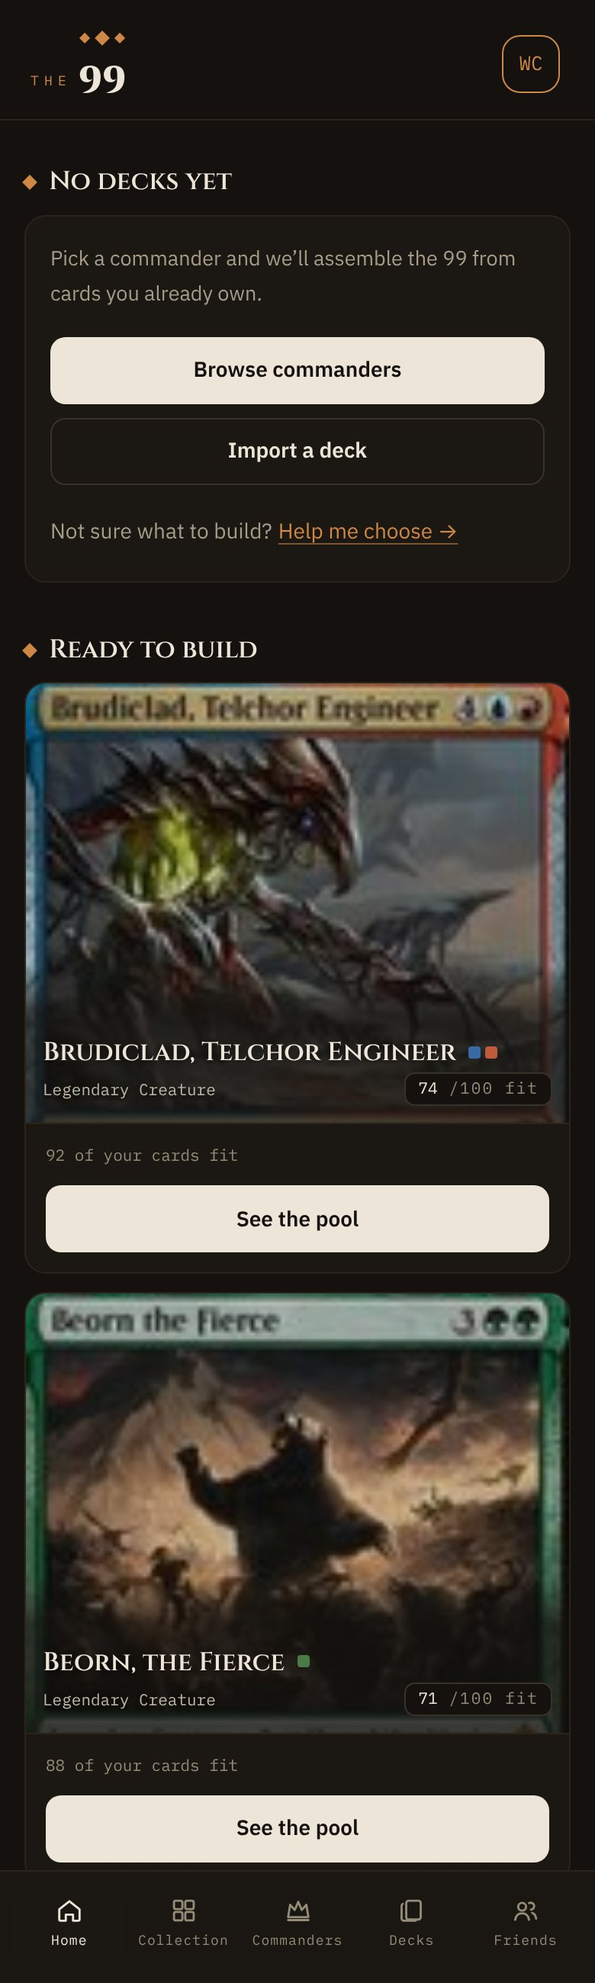
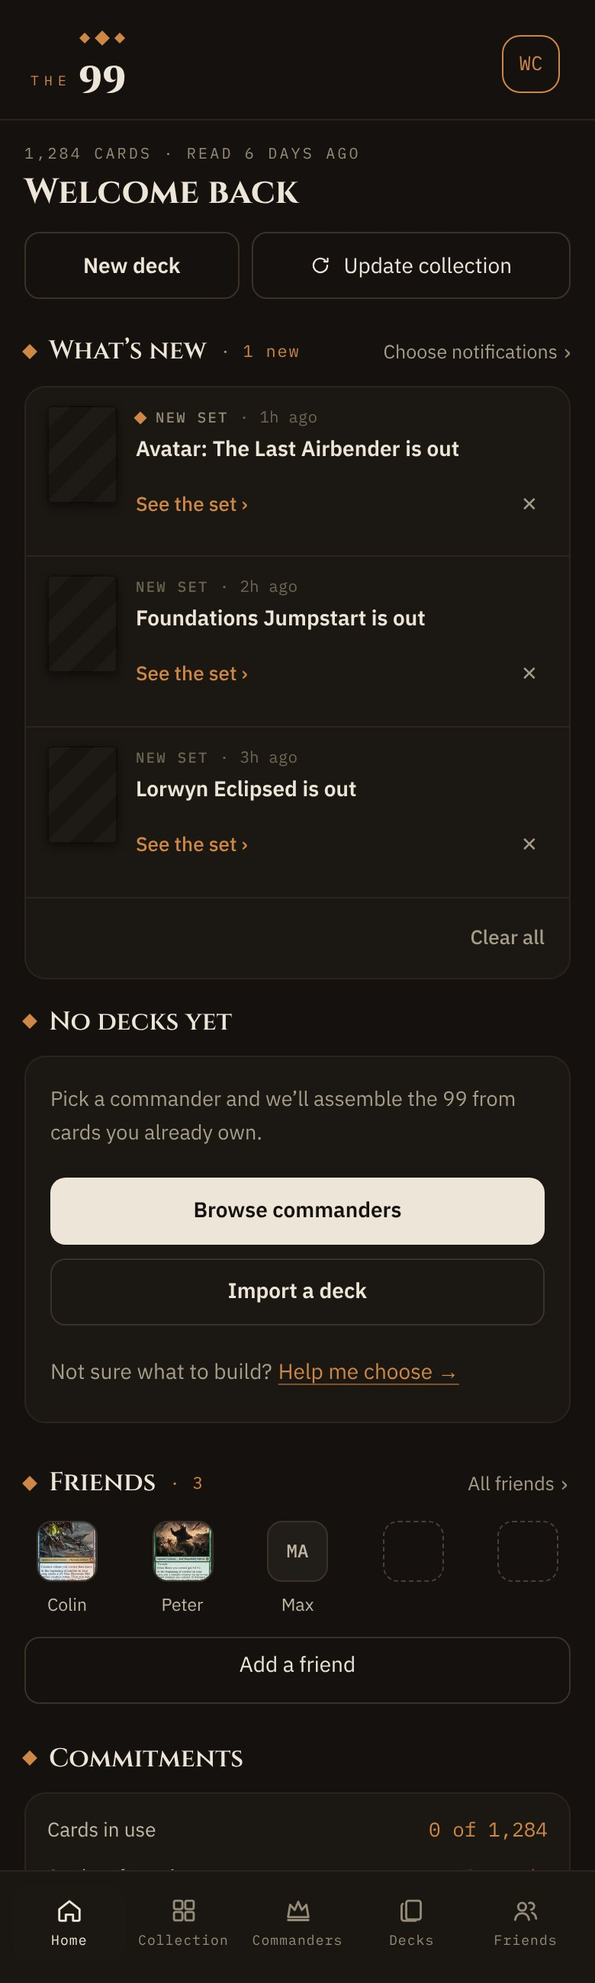
account-2 2026-11-26: Deck details refresh R4b, before/after on every R4 board, Home redrawn as the shipped zero-deck Dashboard
Claude-Session: https://claude.ai/code/session_01UvpaAavF5dGRZqX6wimWWg

diff --git a/account-2/design_handoff_the99_deck_details_refresh/R4-HelpMeChoose.dc.html b/account-2/design_handoff_the99_deck_details_refresh/R4-HelpMeChoose.dc.html
@@ -9,11 +9,12 @@
 <x-dc>
 <helmet><style>body{margin:0;background:#0f0d0a;font-family:system-ui,sans-serif;color:#EDE6D8}
 .b{padding:40px}.t{font-size:28px;font-weight:600;margin:0 0 8px}.n{font-size:16px;color:#C0B8A6;max-width:1500px;line-height:1.5;margin:0 0 28px}
-.row{display:flex;gap:60px;align-items:flex-start}.f{display:flex;flex-direction:column;gap:8px}.f span{font:13px ui-monospace,monospace;color:#948B78}
+.lab{font:600 15px ui-monospace,monospace;letter-spacing:.12em;margin:0 0 12px;color:#948B78}.lab.a{color:#CF8745}
+.row{display:flex;gap:60px;align-items:flex-start;margin-bottom:56px}.f{display:flex;flex-direction:column;gap:8px}.f span{font:13px ui-monospace,monospace;color:#948B78}
 .f img{display:block;border:1px solid #2B241B}</style></helmet>
-<div class="b"><p class="t">R4 Help me choose results · heads</p><p class="n">Best fits, More commanders and The rest of your results use the ◆ display head; the divider's hairline goes. Left pair: fit order. Right pair: after a read, where the rest head replaces More commanders so two heads never stack.</p><div class="row"><div class="f"><span>Desktop</span><img src="art/r4/HM-desk.jpg" width="1300" height="1100" alt=""></div><div class="f"><span>Phone</span><img src="art/r4/HM-phone.jpg" width="390" height="2000" alt=""></div><div class="f"><span>Desktop</span><img src="art/r4/HR-desk.jpg" width="1300" height="1100" alt=""></div><div class="f"><span>Phone</span><img src="art/r4/HR-phone.jpg" width="390" height="1700" alt=""></div></div></div>
+<div class="b"><p class="t">R4 Help me choose results · heads</p><p class="n">Best fits, More commanders and The rest of your results use the ◆ display head; the divider's hairline goes. First pair: fit order. Second pair: after a read, where the rest head replaces More commanders so two heads never stack.</p><p class="lab ">BEFORE · SHIPPED</p><div class="row"><div class="f"><span>Desktop</span><img src="art/r4/before/HM-desk.jpg" width="1300" height="1100" alt=""></div><div class="f"><span>Phone</span><img src="art/r4/before/HM-phone.jpg" width="390" height="2000" alt=""></div><div class="f"><span>Desktop</span><img src="art/r4/before/HR-desk.jpg" width="1300" height="1100" alt=""></div><div class="f"><span>Phone</span><img src="art/r4/before/HR-phone.jpg" width="390" height="1700" alt=""></div></div><p class="lab a">AFTER · R4</p><div class="row"><div class="f"><span>Desktop</span><img src="art/r4/HM-desk.jpg" width="1300" height="1100" alt=""></div><div class="f"><span>Phone</span><img src="art/r4/HM-phone.jpg" width="390" height="2000" alt=""></div><div class="f"><span>Desktop</span><img src="art/r4/HR-desk.jpg" width="1300" height="1100" alt=""></div><div class="f"><span>Phone</span><img src="art/r4/HR-phone.jpg" width="390" height="1700" alt=""></div></div></div>
 </x-dc>
-<script type="text/x-dc" data-dc-script data-props='{"$preview":{"width":3720,"height":2198}}'>
+<script type="text/x-dc" data-dc-script data-props='{"$preview":{"width":3640,"height":4414}}'>
 class Component extends DCLogic {
 renderVals() { return {}; }
 }

diff --git a/account-2/design_handoff_the99_deck_details_refresh/R4-Export.dc.html b/account-2/design_handoff_the99_deck_details_refresh/R4-Export.dc.html
@@ -9,11 +9,12 @@
 <x-dc>
 <helmet><style>body{margin:0;background:#0f0d0a;font-family:system-ui,sans-serif;color:#EDE6D8}
 .b{padding:40px}.t{font-size:28px;font-weight:600;margin:0 0 8px}.n{font-size:16px;color:#C0B8A6;max-width:1500px;line-height:1.5;margin:0 0 28px}
-.row{display:flex;gap:60px;align-items:flex-start}.f{display:flex;flex-direction:column;gap:8px}.f span{font:13px ui-monospace,monospace;color:#948B78}
+.lab{font:600 15px ui-monospace,monospace;letter-spacing:.12em;margin:0 0 12px;color:#948B78}.lab.a{color:#CF8745}
+.row{display:flex;gap:60px;align-items:flex-start;margin-bottom:56px}.f{display:flex;flex-direction:column;gap:8px}.f span{font:13px ui-monospace,monospace;color:#948B78}
 .f img{display:block;border:1px solid #2B241B}</style></helmet>
-<div class="b"><p class="t">R4 Export and Export › Shopping</p><p class="n">Tabs use the shipped SegmentedSwitch (no amber Shopping pill). Shopping rows are the shipped decklist rows, read only. The i callout becomes one plain line; the footer drops Moxfield · Archidekt ready (the subtitle says it); bare ✕ close.</p><div class="row"><div class="f"><span>Desktop</span><img src="art/r4/E-desk-shop.jpg" width="1300" height="860" alt=""></div><div class="f"><span>Phone</span><img src="art/r4/E-phone-shop.jpg" width="390" height="844" alt=""></div><div class="f"><span>Desktop</span><img src="art/r4/E-desk-list.jpg" width="1300" height="860" alt=""></div></div></div>
+<div class="b"><p class="t">R4 Export and Export › Shopping</p><p class="n">Tabs use the shipped SegmentedSwitch (no amber Shopping pill). Shopping rows are the shipped decklist rows, read only. The i callout becomes one plain line; the footer drops Moxfield · Archidekt ready (the subtitle says it); bare ✕ close.</p><p class="lab ">BEFORE · SHIPPED</p><div class="row"><div class="f"><span>Desktop</span><img src="art/r4/before/E-desk-shop.jpg" width="1300" height="860" alt=""></div><div class="f"><span>Phone</span><img src="art/r4/before/E-phone-shop.jpg" width="390" height="844" alt=""></div><div class="f"><span>Desktop</span><img src="art/r4/before/E-desk-list.jpg" width="1300" height="860" alt=""></div></div><p class="lab a">AFTER · R4</p><div class="row"><div class="f"><span>Desktop</span><img src="art/r4/E-desk-shop.jpg" width="1300" height="860" alt=""></div><div class="f"><span>Phone</span><img src="art/r4/E-phone-shop.jpg" width="390" height="844" alt=""></div><div class="f"><span>Desktop</span><img src="art/r4/E-desk-list.jpg" width="1300" height="860" alt=""></div></div></div>
 </x-dc>
-<script type="text/x-dc" data-dc-script data-props='{"$preview":{"width":3270,"height":1058}}'>
+<script type="text/x-dc" data-dc-script data-props='{"$preview":{"width":3190,"height":2134}}'>
 class Component extends DCLogic {
 renderVals() { return {}; }
 }

diff --git a/account-2/design_handoff_the99_deck_details_refresh/R4-Precons.dc.html b/account-2/design_handoff_the99_deck_details_refresh/R4-Precons.dc.html
@@ -9,11 +9,12 @@
 <x-dc>
 <helmet><style>body{margin:0;background:#0f0d0a;font-family:system-ui,sans-serif;color:#EDE6D8}
 .b{padding:40px}.t{font-size:28px;font-weight:600;margin:0 0 8px}.n{font-size:16px;color:#C0B8A6;max-width:1500px;line-height:1.5;margin:0 0 28px}
-.row{display:flex;gap:60px;align-items:flex-start}.f{display:flex;flex-direction:column;gap:8px}.f span{font:13px ui-monospace,monospace;color:#948B78}
+.lab{font:600 15px ui-monospace,monospace;letter-spacing:.12em;margin:0 0 12px;color:#948B78}.lab.a{color:#CF8745}
+.row{display:flex;gap:60px;align-items:flex-start;margin-bottom:56px}.f{display:flex;flex-direction:column;gap:8px}.f span{font:13px ui-monospace,monospace;color:#948B78}
 .f img{display:block;border:1px solid #2B241B}</style></helmet>
-<div class="b"><p class="t">R4 Precons · Announced box and year boxes</p><p class="n">Announced and each release year become deck boxes: ◆ display title on the rail band, count in mono. Folded Announced (phone, right) keeps its shipped toggle on the band.</p><div class="row"><div class="f"><span>Desktop</span><img src="art/r4/P-desk.jpg" width="1300" height="1500" alt=""></div><div class="f"><span>Phone</span><img src="art/r4/P-phone.jpg" width="390" height="2150" alt=""></div><div class="f"><span>Phone</span><img src="art/r4/PC-phone.jpg" width="390" height="900" alt=""></div></div></div>
+<div class="b"><p class="t">R4 Precons · Announced box and year boxes</p><p class="n">Announced and each release year become deck boxes: ◆ display title on the rail band, count in mono. Folded Announced (phone, right) keeps its shipped toggle on the band.</p><p class="lab ">BEFORE · SHIPPED</p><div class="row"><div class="f"><span>Desktop</span><img src="art/r4/before/P-desk.jpg" width="1300" height="1500" alt=""></div><div class="f"><span>Phone</span><img src="art/r4/before/P-phone.jpg" width="390" height="2150" alt=""></div><div class="f"><span>Phone</span><img src="art/r4/before/PC-phone.jpg" width="390" height="900" alt=""></div></div><p class="lab a">AFTER · R4</p><div class="row"><div class="f"><span>Desktop</span><img src="art/r4/P-desk.jpg" width="1300" height="1500" alt=""></div><div class="f"><span>Phone</span><img src="art/r4/P-phone.jpg" width="390" height="2150" alt=""></div><div class="f"><span>Phone</span><img src="art/r4/PC-phone.jpg" width="390" height="900" alt=""></div></div></div>
 </x-dc>
-<script type="text/x-dc" data-dc-script data-props='{"$preview":{"width":2360,"height":2348}}'>
+<script type="text/x-dc" data-dc-script data-props='{"$preview":{"width":2280,"height":4714}}'>
 class Component extends DCLogic {
 renderVals() { return {}; }
 }

diff --git a/account-2/design_handoff_the99_deck_details_refresh/scratch-gen/r4/r4.tsx b/account-2/design_handoff_the99_deck_details_refresh/scratch-gen/r4/r4.tsx
@@ -12,7 +12,7 @@ import { FriendsView } from "../src/components/social/friends-view";
 import { PodsPane } from "../src/components/social/pods-pane";
 import { named } from "../src/lib/person-name/mint";
 import { HomeDecksZero } from "../src/components/home/home-decks-zero";
-import { ReadyToBuild } from "../src/components/home/ready-to-build";
+import { Dashboard } from "../src/components/home/dashboard";
 import { AnalysisEmpty } from "../src/components/decks/analysis-empty";
 import { ChooseResults } from "../src/components/intake/choose-results";
 import { ReadScope } from "../src/components/intake/read-panel";
@@ -127,7 +127,10 @@ app("F-phone", "phone", "/friends", friends, { vh: 1400 });
 // ---------- Home: zero decks, Ready to build ----------
 const hero = (i: number, name: string, ci: string[], score: number, pool: number): any => ({ oracleId: "oh" + i, slug: name.toLowerCase().replace(/\W+/g, "-"), name, colorIdentity: ci, imageUri: img(i), artCropUri: img(i), score, measurableTotal: 100, colorPoolSize: pool, typeLine: "Legendary Creature" });
 const READY: any = { shown: [hero(0, "Brudiclad, Telchor Engineer", ["U", "R"], 74, 92), hero(5, "Beorn, the Fierce", ["G"], 71, 88)], moreCount: 7, floor: 70 };
-const home = () => <div className="flex flex-col" style={{ gap: 34, padding: "24px 16px 40px", maxWidth: 1000, width: "100%", margin: "0 auto", boxSizing: "border-box" }}><HomeDecksZero /><ReadyToBuild ready={READY} inUse={new Map()} /></div>;
+const HNOW = "2026-11-26T08:00:00.000Z";
+const hv = (n: number, o: any = {}): any => ({ key: `k${n}`, kind: "new-set", at: new Date(Date.parse(HNOW) - (n + 1) * 3_600_000).toISOString(), unseen: n < 1, card: null, friend: null, href: `/collection/sets/s${n}`, opens: null, outbound: null, name: ["Avatar: The Last Airbender", "Foundations Jumpstart", "Lorwyn Eclipsed"][n % 3], setSize: null, owned: null, drop: null, combo: null, answer: null, askable: false, ...o });
+const HFEED: any = { chosen: true, on: ["new-set", "trade-match"], items: [hv(0), hv(1), hv(2)], unseen: 1, lead: null };
+const home = () => <Dashboard stats={{ totalCards: 1284, uniqueCards: 900 }} lastUpdated={new Date("2026-11-20T00:00:00Z")} ready={READY} inUse={new Map()} decks={[]} commitments={{ inUse: 0, overCommitted: 0 } as any} shopping={{ byDeck: new Map(), total: { copies: 0, cents: 0, pricedCopies: 0 } } as any} friends={{ you: { displayName: "Wren", commander: null }, friends: FR.slice(0, 3) as any, links: [], invites: null } as any} now={HNOW} feed={HFEED} />;
 app("H-desk", "desk", "/", home, { vh: 900 });
 app("H-phone", "phone", "/", home, { vh: 1300 });
 

diff --git a/account-2/design_handoff_the99_deck_details_refresh/R4-Cart.dc.html b/account-2/design_handoff_the99_deck_details_refresh/R4-Cart.dc.html
@@ -9,11 +9,12 @@
 <x-dc>
 <helmet><style>body{margin:0;background:#0f0d0a;font-family:system-ui,sans-serif;color:#EDE6D8}
 .b{padding:40px}.t{font-size:28px;font-weight:600;margin:0 0 8px}.n{font-size:16px;color:#C0B8A6;max-width:1500px;line-height:1.5;margin:0 0 28px}
-.row{display:flex;gap:60px;align-items:flex-start}.f{display:flex;flex-direction:column;gap:8px}.f span{font:13px ui-monospace,monospace;color:#948B78}
+.lab{font:600 15px ui-monospace,monospace;letter-spacing:.12em;margin:0 0 12px;color:#948B78}.lab.a{color:#CF8745}
+.row{display:flex;gap:60px;align-items:flex-start;margin-bottom:56px}.f{display:flex;flex-direction:column;gap:8px}.f span{font:13px ui-monospace,monospace;color:#948B78}
 .f img{display:block;border:1px solid #2B241B}</style></helmet>
-<div class="b"><p class="t">R4 Decks › All shopping cart · Decks box</p><p class="n">The mono deck-select label becomes a ◆ Decks band with N of M selected; Select all/none stays at the band's end in the sans face. Checkout total box unchanged.</p><div class="row"><div class="f"><span>Desktop</span><img src="art/r4/C-desk.jpg" width="1300" height="900" alt=""></div><div class="f"><span>Phone</span><img src="art/r4/C-phone.jpg" width="390" height="1100" alt=""></div></div></div>
+<div class="b"><p class="t">R4 Decks › All shopping cart · Decks box</p><p class="n">The mono deck-select label becomes a ◆ Decks band with N of M selected; Select all/none stays at the band's end in the sans face. Checkout total box unchanged.</p><p class="lab ">BEFORE · SHIPPED</p><div class="row"><div class="f"><span>Desktop</span><img src="art/r4/before/C-desk.jpg" width="1300" height="900" alt=""></div><div class="f"><span>Phone</span><img src="art/r4/before/C-phone.jpg" width="390" height="1100" alt=""></div></div><p class="lab a">AFTER · R4</p><div class="row"><div class="f"><span>Desktop</span><img src="art/r4/C-desk.jpg" width="1300" height="900" alt=""></div><div class="f"><span>Phone</span><img src="art/r4/C-phone.jpg" width="390" height="1100" alt=""></div></div></div>
 </x-dc>
-<script type="text/x-dc" data-dc-script data-props='{"$preview":{"width":1910,"height":1298}}'>
+<script type="text/x-dc" data-dc-script data-props='{"$preview":{"width":1830,"height":2614}}'>
 class Component extends DCLogic {
 renderVals() { return {}; }
 }

diff --git a/account-2/design_handoff_the99_deck_details_refresh/R4-PreconOpen.dc.html b/account-2/design_handoff_the99_deck_details_refresh/R4-PreconOpen.dc.html
@@ -9,11 +9,12 @@
 <x-dc>
 <helmet><style>body{margin:0;background:#0f0d0a;font-family:system-ui,sans-serif;color:#EDE6D8}
 .b{padding:40px}.t{font-size:28px;font-weight:600;margin:0 0 8px}.n{font-size:16px;color:#C0B8A6;max-width:1500px;line-height:1.5;margin:0 0 28px}
-.row{display:flex;gap:60px;align-items:flex-start}.f{display:flex;flex-direction:column;gap:8px}.f span{font:13px ui-monospace,monospace;color:#948B78}
+.lab{font:600 15px ui-monospace,monospace;letter-spacing:.12em;margin:0 0 12px;color:#948B78}.lab.a{color:#CF8745}
+.row{display:flex;gap:60px;align-items:flex-start;margin-bottom:56px}.f{display:flex;flex-direction:column;gap:8px}.f span{font:13px ui-monospace,monospace;color:#948B78}
 .f img{display:block;border:1px solid #2B241B}</style></helmet>
-<div class="b"><p class="t">R4 Open precon · Overview box</p><p class="n">The mono Overview label becomes a box band; View full overview moves to the box foot. Decklist group heads follow Deck details All (already in PR 1).</p><div class="row"><div class="f"><span>Desktop</span><img src="art/r4/PO-desk.jpg" width="1300" height="1300" alt=""></div><div class="f"><span>Phone</span><img src="art/r4/PO-phone.jpg" width="390" height="1500" alt=""></div></div></div>
+<div class="b"><p class="t">R4 Open precon · Overview box</p><p class="n">The mono Overview label becomes a box band; View full overview moves to the box foot. Decklist group heads follow Deck details All (already in PR 1).</p><p class="lab ">BEFORE · SHIPPED</p><div class="row"><div class="f"><span>Desktop</span><img src="art/r4/before/PO-desk.jpg" width="1300" height="1300" alt=""></div><div class="f"><span>Phone</span><img src="art/r4/before/PO-phone.jpg" width="390" height="1500" alt=""></div></div><p class="lab a">AFTER · R4</p><div class="row"><div class="f"><span>Desktop</span><img src="art/r4/PO-desk.jpg" width="1300" height="1300" alt=""></div><div class="f"><span>Phone</span><img src="art/r4/PO-phone.jpg" width="390" height="1500" alt=""></div></div></div>
 </x-dc>
-<script type="text/x-dc" data-dc-script data-props='{"$preview":{"width":1910,"height":1698}}'>
+<script type="text/x-dc" data-dc-script data-props='{"$preview":{"width":1830,"height":3414}}'>
 class Component extends DCLogic {
 renderVals() { return {}; }
 }

diff --git a/account-2/design_handoff_the99_deck_details_refresh/R4-Settings.dc.html b/account-2/design_handoff_the99_deck_details_refresh/R4-Settings.dc.html
@@ -9,11 +9,12 @@
 <x-dc>
 <helmet><style>body{margin:0;background:#0f0d0a;font-family:system-ui,sans-serif;color:#EDE6D8}
 .b{padding:40px}.t{font-size:28px;font-weight:600;margin:0 0 8px}.n{font-size:16px;color:#C0B8A6;max-width:1500px;line-height:1.5;margin:0 0 28px}
-.row{display:flex;gap:60px;align-items:flex-start}.f{display:flex;flex-direction:column;gap:8px}.f span{font:13px ui-monospace,monospace;color:#948B78}
+.lab{font:600 15px ui-monospace,monospace;letter-spacing:.12em;margin:0 0 12px;color:#948B78}.lab.a{color:#CF8745}
+.row{display:flex;gap:60px;align-items:flex-start;margin-bottom:56px}.f{display:flex;flex-direction:column;gap:8px}.f span{font:13px ui-monospace,monospace;color:#948B78}
 .f img{display:block;border:1px solid #2B241B}</style></helmet>
-<div class="b"><p class="t">R4 Settings · section heads</p><p class="n">Every Settings section head (Notifications, Spares, Your decks, Account, Store) and Kept back move from mono caps on a hairline to the ◆ display head.</p><div class="row"><div class="f"><span>Desktop</span><img src="art/r4/S-desk.jpg" width="1300" height="1500" alt=""></div><div class="f"><span>Phone</span><img src="art/r4/S-phone.jpg" width="390" height="2000" alt=""></div></div></div>
+<div class="b"><p class="t">R4 Settings · section heads</p><p class="n">Every Settings section head (Notifications, Spares, Your decks, Account, Store) and Kept back move from mono caps on a hairline to the ◆ display head.</p><p class="lab ">BEFORE · SHIPPED</p><div class="row"><div class="f"><span>Desktop</span><img src="art/r4/before/S-desk.jpg" width="1300" height="1500" alt=""></div><div class="f"><span>Phone</span><img src="art/r4/before/S-phone.jpg" width="390" height="2000" alt=""></div></div><p class="lab a">AFTER · R4</p><div class="row"><div class="f"><span>Desktop</span><img src="art/r4/S-desk.jpg" width="1300" height="1500" alt=""></div><div class="f"><span>Phone</span><img src="art/r4/S-phone.jpg" width="390" height="2000" alt=""></div></div></div>
 </x-dc>
-<script type="text/x-dc" data-dc-script data-props='{"$preview":{"width":1910,"height":2198}}'>
+<script type="text/x-dc" data-dc-script data-props='{"$preview":{"width":1830,"height":4414}}'>
 class Component extends DCLogic {
 renderVals() { return {}; }
 }

diff --git a/account-2/design_handoff_the99_deck_details_refresh/R4-Friends.dc.html b/account-2/design_handoff_the99_deck_details_refresh/R4-Friends.dc.html
@@ -9,11 +9,12 @@
 <x-dc>
 <helmet><style>body{margin:0;background:#0f0d0a;font-family:system-ui,sans-serif;color:#EDE6D8}
 .b{padding:40px}.t{font-size:28px;font-weight:600;margin:0 0 8px}.n{font-size:16px;color:#C0B8A6;max-width:1500px;line-height:1.5;margin:0 0 28px}
-.row{display:flex;gap:60px;align-items:flex-start}.f{display:flex;flex-direction:column;gap:8px}.f span{font:13px ui-monospace,monospace;color:#948B78}
+.lab{font:600 15px ui-monospace,monospace;letter-spacing:.12em;margin:0 0 12px;color:#948B78}.lab.a{color:#CF8745}
+.row{display:flex;gap:60px;align-items:flex-start;margin-bottom:56px}.f{display:flex;flex-direction:column;gap:8px}.f span{font:13px ui-monospace,monospace;color:#948B78}
 .f img{display:block;border:1px solid #2B241B}</style></helmet>
-<div class="b"><p class="t">R4 Friends and Pods · section bands</p><p class="n">Friends, Pods, Waiting on you, Your requests and request history bands switch from mono caps to the ◆ display title with a mono count.</p><div class="row"><div class="f"><span>Desktop</span><img src="art/r4/F-desk.jpg" width="1300" height="900" alt=""></div><div class="f"><span>Phone</span><img src="art/r4/F-phone.jpg" width="390" height="1400" alt=""></div></div></div>
+<div class="b"><p class="t">R4 Friends and Pods · section bands</p><p class="n">Friends, Pods, Waiting on you, Your requests and request history bands switch from mono caps to the ◆ display title with a mono count.</p><p class="lab ">BEFORE · SHIPPED</p><div class="row"><div class="f"><span>Desktop</span><img src="art/r4/before/F-desk.jpg" width="1300" height="900" alt=""></div><div class="f"><span>Phone</span><img src="art/r4/before/F-phone.jpg" width="390" height="1400" alt=""></div></div><p class="lab a">AFTER · R4</p><div class="row"><div class="f"><span>Desktop</span><img src="art/r4/F-desk.jpg" width="1300" height="900" alt=""></div><div class="f"><span>Phone</span><img src="art/r4/F-phone.jpg" width="390" height="1400" alt=""></div></div></div>
 </x-dc>
-<script type="text/x-dc" data-dc-script data-props='{"$preview":{"width":1910,"height":1598}}'>
+<script type="text/x-dc" data-dc-script data-props='{"$preview":{"width":1830,"height":3214}}'>
 class Component extends DCLogic {
 renderVals() { return {}; }
 }

diff --git a/account-2/design_handoff_the99_deck_details_refresh/R4-Home.dc.html b/account-2/design_handoff_the99_deck_details_refresh/R4-Home.dc.html
@@ -9,11 +9,12 @@
 <x-dc>
 <helmet><style>body{margin:0;background:#0f0d0a;font-family:system-ui,sans-serif;color:#EDE6D8}
 .b{padding:40px}.t{font-size:28px;font-weight:600;margin:0 0 8px}.n{font-size:16px;color:#C0B8A6;max-width:1500px;line-height:1.5;margin:0 0 28px}
-.row{display:flex;gap:60px;align-items:flex-start}.f{display:flex;flex-direction:column;gap:8px}.f span{font:13px ui-monospace,monospace;color:#948B78}
+.lab{font:600 15px ui-monospace,monospace;letter-spacing:.12em;margin:0 0 12px;color:#948B78}.lab.a{color:#CF8745}
+.row{display:flex;gap:60px;align-items:flex-start;margin-bottom:56px}.f{display:flex;flex-direction:column;gap:8px}.f span{font:13px ui-monospace,monospace;color:#948B78}
 .f img{display:block;border:1px solid #2B241B}</style></helmet>
-<div class="b"><p class="t">R4 Home · zero-state heads</p><p class="n">No decks yet and Ready to build use Home's own section head, like What's new and Friends.</p><div class="row"><div class="f"><span>Desktop</span><img src="art/r4/H-desk.jpg" width="1300" height="900" alt=""></div><div class="f"><span>Phone</span><img src="art/r4/H-phone.jpg" width="390" height="1300" alt=""></div></div></div>
+<div class="b"><p class="t">R4 Home at zero decks · No decks yet head</p><p class="n">No decks yet uses Home's own section head, like What's new, Commitments and Friends. (Ready to build left Home with What's new, so it is not redrawn.)</p><p class="lab ">BEFORE · SHIPPED</p><div class="row"><div class="f"><span>Desktop</span><img src="art/r4/before/H-desk.jpg" width="1300" height="900" alt=""></div><div class="f"><span>Phone</span><img src="art/r4/before/H-phone.jpg" width="390" height="1300" alt=""></div></div><p class="lab a">AFTER · R4</p><div class="row"><div class="f"><span>Desktop</span><img src="art/r4/H-desk.jpg" width="1300" height="900" alt=""></div><div class="f"><span>Phone</span><img src="art/r4/H-phone.jpg" width="390" height="1300" alt=""></div></div></div>
 </x-dc>
-<script type="text/x-dc" data-dc-script data-props='{"$preview":{"width":1910,"height":1498}}'>
+<script type="text/x-dc" data-dc-script data-props='{"$preview":{"width":1830,"height":3014}}'>
 class Component extends DCLogic {
 renderVals() { return {}; }
 }

diff --git a/account-2/design_handoff_the99_deck_details_refresh/R4-Analysis.dc.html b/account-2/design_handoff_the99_deck_details_refresh/R4-Analysis.dc.html
@@ -9,11 +9,12 @@
 <x-dc>
 <helmet><style>body{margin:0;background:#0f0d0a;font-family:system-ui,sans-serif;color:#EDE6D8}
 .b{padding:40px}.t{font-size:28px;font-weight:600;margin:0 0 8px}.n{font-size:16px;color:#C0B8A6;max-width:1500px;line-height:1.5;margin:0 0 28px}
-.row{display:flex;gap:60px;align-items:flex-start}.f{display:flex;flex-direction:column;gap:8px}.f span{font:13px ui-monospace,monospace;color:#948B78}
+.lab{font:600 15px ui-monospace,monospace;letter-spacing:.12em;margin:0 0 12px;color:#948B78}.lab.a{color:#CF8745}
+.row{display:flex;gap:60px;align-items:flex-start;margin-bottom:56px}.f{display:flex;flex-direction:column;gap:8px}.f span{font:13px ui-monospace,monospace;color:#948B78}
 .f img{display:block;border:1px solid #2B241B}</style></helmet>
-<div class="b"><p class="t">R4 Analysis before a read · Overview box</p><p class="n">The mono Overview label becomes a box band around the ring and Analyze, matching the R3 Analysis boxes.</p><div class="row"><div class="f"><span>Desktop</span><img src="art/r4/AE-desk.jpg" width="1300" height="700" alt=""></div><div class="f"><span>Phone</span><img src="art/r4/AE-phone.jpg" width="390" height="844" alt=""></div></div></div>
+<div class="b"><p class="t">R4 Analysis before a read · Overview box</p><p class="n">The mono Overview label becomes a box band around the ring and Analyze, matching the R3 Analysis boxes.</p><p class="lab ">BEFORE · SHIPPED</p><div class="row"><div class="f"><span>Desktop</span><img src="art/r4/before/AE-desk.jpg" width="1300" height="700" alt=""></div><div class="f"><span>Phone</span><img src="art/r4/before/AE-phone.jpg" width="390" height="844" alt=""></div></div><p class="lab a">AFTER · R4</p><div class="row"><div class="f"><span>Desktop</span><img src="art/r4/AE-desk.jpg" width="1300" height="700" alt=""></div><div class="f"><span>Phone</span><img src="art/r4/AE-phone.jpg" width="390" height="844" alt=""></div></div></div>
 </x-dc>
-<script type="text/x-dc" data-dc-script data-props='{"$preview":{"width":1910,"height":1042}}'>
+<script type="text/x-dc" data-dc-script data-props='{"$preview":{"width":1830,"height":2102}}'>
 class Component extends DCLogic {
 renderVals() { return {}; }
 }

diff --git a/account-2/design_handoff_the99_deck_details_refresh/R4-PreconPick.dc.html b/account-2/design_handoff_the99_deck_details_refresh/R4-PreconPick.dc.html
@@ -9,11 +9,12 @@
 <x-dc>
 <helmet><style>body{margin:0;background:#0f0d0a;font-family:system-ui,sans-serif;color:#EDE6D8}
 .b{padding:40px}.t{font-size:28px;font-weight:600;margin:0 0 8px}.n{font-size:16px;color:#C0B8A6;max-width:1500px;line-height:1.5;margin:0 0 28px}
-.row{display:flex;gap:60px;align-items:flex-start}.f{display:flex;flex-direction:column;gap:8px}.f span{font:13px ui-monospace,monospace;color:#948B78}
+.lab{font:600 15px ui-monospace,monospace;letter-spacing:.12em;margin:0 0 12px;color:#948B78}.lab.a{color:#CF8745}
+.row{display:flex;gap:60px;align-items:flex-start;margin-bottom:56px}.f{display:flex;flex-direction:column;gap:8px}.f span{font:13px ui-monospace,monospace;color:#948B78}
 .f img{display:block;border:1px solid #2B241B}</style></helmet>
-<div class="b"><p class="t">R4 New deck › From a precon · year boxes</p><p class="n">The pick view's year groups get the same boxes as the precon list.</p><div class="row"><div class="f"><span>Desktop</span><img src="art/r4/PK-desk.jpg" width="1300" height="1100" alt=""></div><div class="f"><span>Phone</span><img src="art/r4/PK-phone.jpg" width="390" height="1300" alt=""></div></div></div>
+<div class="b"><p class="t">R4 New deck › From a precon · year boxes</p><p class="n">The pick view's year groups get the same boxes as the precon list.</p><p class="lab ">BEFORE · SHIPPED</p><div class="row"><div class="f"><span>Desktop</span><img src="art/r4/before/PK-desk.jpg" width="1300" height="1100" alt=""></div><div class="f"><span>Phone</span><img src="art/r4/before/PK-phone.jpg" width="390" height="1300" alt=""></div></div><p class="lab a">AFTER · R4</p><div class="row"><div class="f"><span>Desktop</span><img src="art/r4/PK-desk.jpg" width="1300" height="1100" alt=""></div><div class="f"><span>Phone</span><img src="art/r4/PK-phone.jpg" width="390" height="1300" alt=""></div></div></div>
 </x-dc>
-<script type="text/x-dc" data-dc-script data-props='{"$preview":{"width":1910,"height":1498}}'>
+<script type="text/x-dc" data-dc-script data-props='{"$preview":{"width":1830,"height":3014}}'>
 class Component extends DCLogic {
 renderVals() { return {}; }
 }

diff --git a/account-2/design_handoff_the99_deck_details_refresh/README.md b/account-2/design_handoff_the99_deck_details_refresh/README.md
@@ -34,7 +34,9 @@ Boards `R4-*.dc.html` (shots in `art/r4/`). Unlike R1–R3 these are the SHIPPED
 - Decks › All cart: the deck-select label becomes a ◆ Decks band with `N of M selected`. Checkout total box unchanged (open question: unify with the R3 Shopping summary box).
 - Export: tabs = shipped `SegmentedSwitch`; Shopping rows = shipped `DecklistRow readOnly`; i-callout → one plain line; footer drops the line the subtitle repeats; bare ✕.
 - Friends/Pods: section-panel `BAND` moves to the display face; `BandText` splits "Title · N".
-- Home zero states: `HomeSectionHead`.
+- Home at zero decks: No decks yet uses `HomeSectionHead`. Ready to build is not redrawn: it left Home with What's new (Direction B).
 - Analysis before a read: Overview becomes a box band.
 - Help me choose results: ◆ heads, divider hairline dropped; after a read the rest head replaces More commanders.
 - Settings: `SECTION_HEAD` (all sections + Open links on /friends) and Kept back move to the ◆ display head.
+
+R4b (Hugh 2026-11-26): every board shows BEFORE (shipped main, `art/r4/before/`) above AFTER; Home redrawn as the full shipped Dashboard at zero decks with the feed on.
